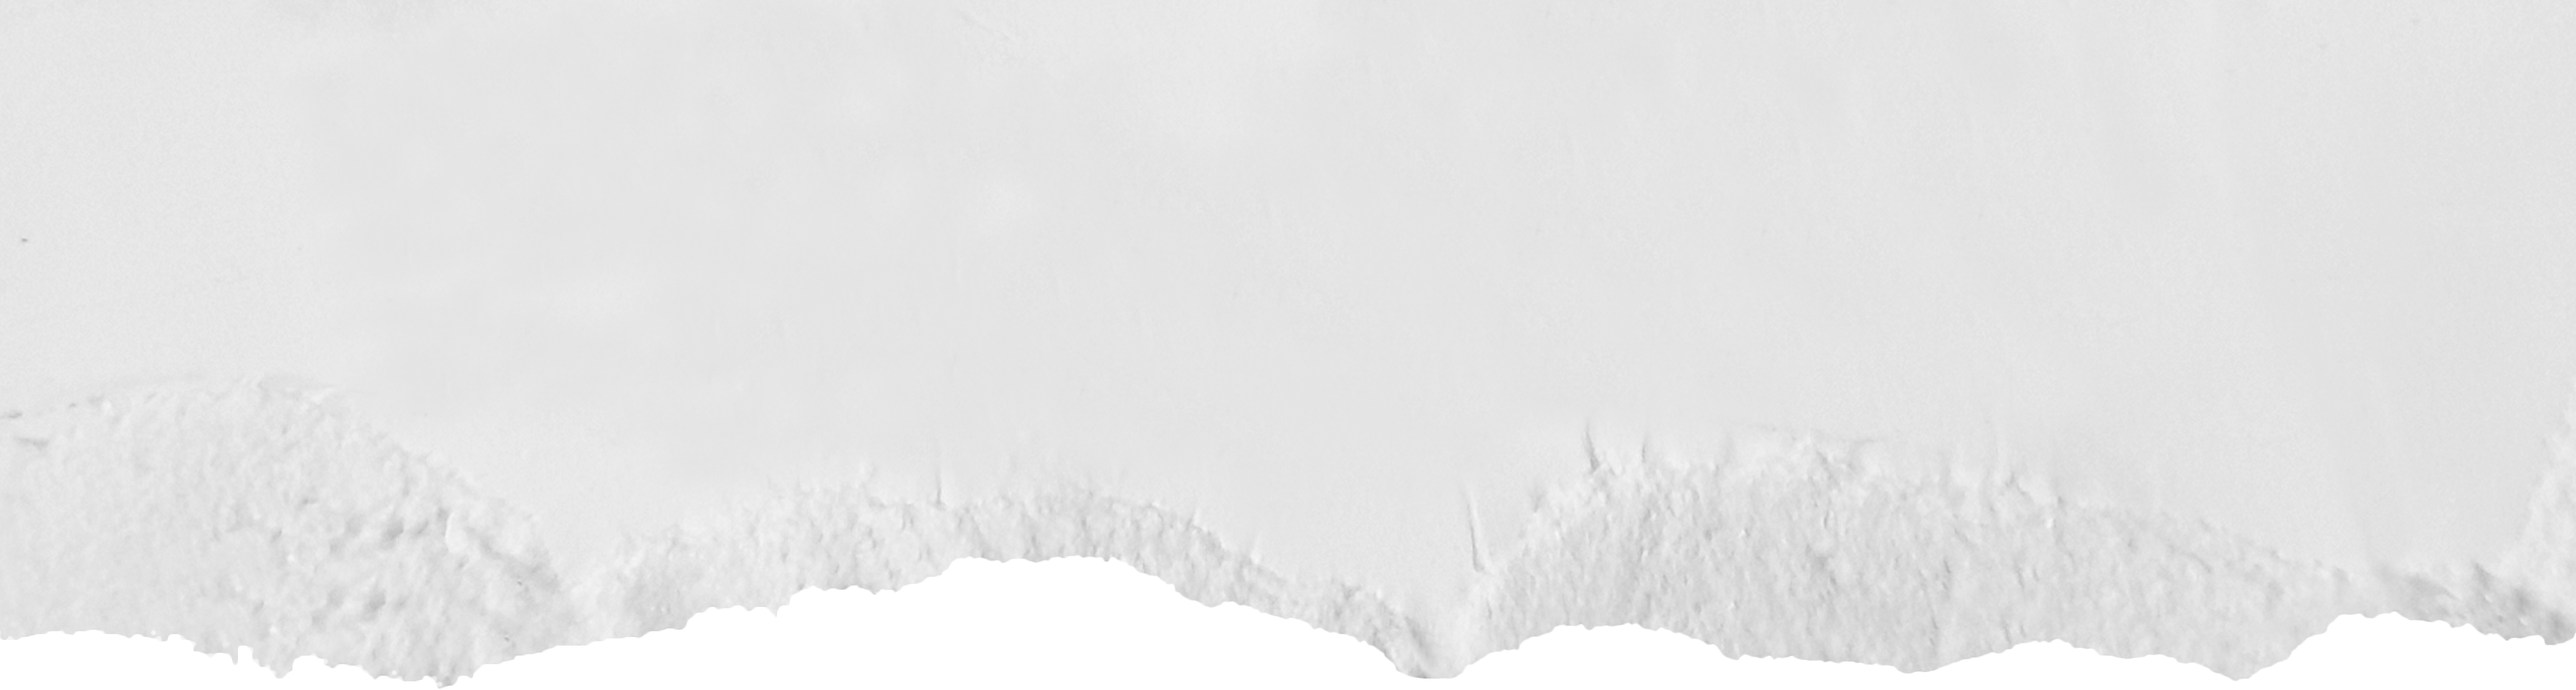
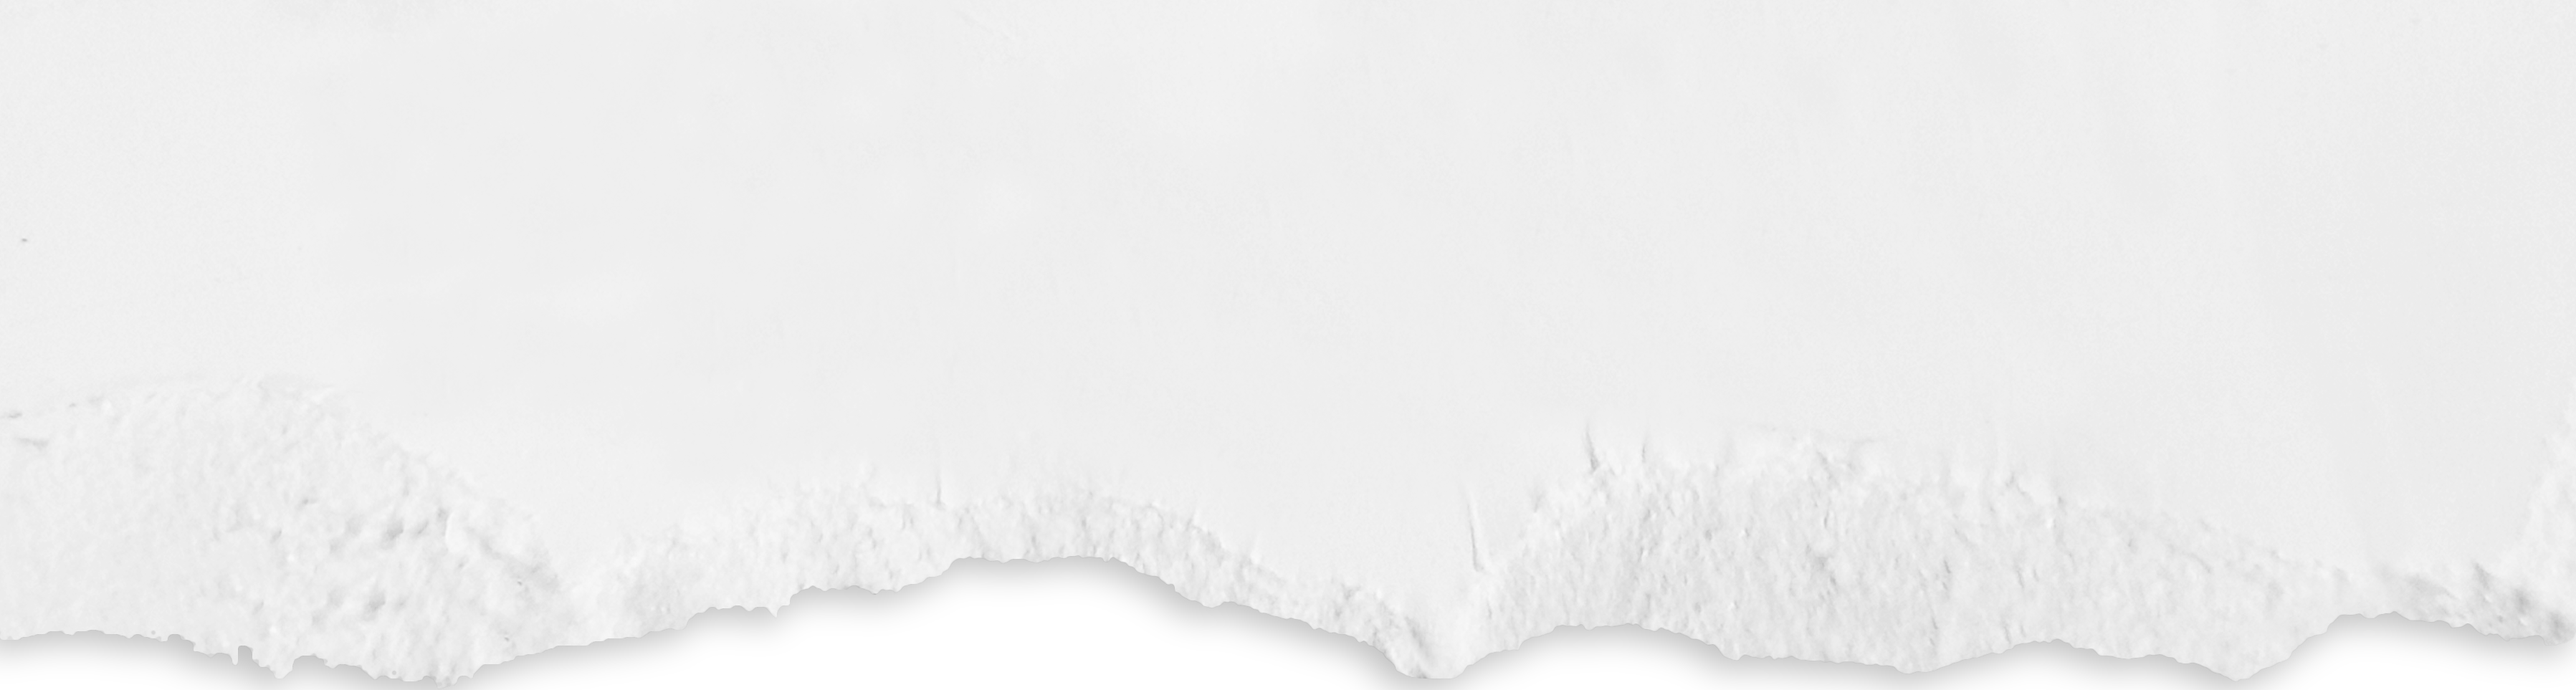
add aesthetic pieces of paper

Changed region(s): [[0.0, 0.81, 0.5921, 1.0], [0.5921, 0.8723, 0.9972, 1.0]]

diff --git a/public/style.css b/public/style.css
@@ -13,9 +13,9 @@ body {
     z-index: 100;
     width: 100%;
     height: 15%;
-    background-image: url("images/torn\ paper\ by\ freeject.net\ 5.png"), linear-gradient(to bottom, #e6e6e6 0%, transparent 50%);
+    background-image: url("images/torn\ paper\ by\ freeject.net\ 5.png");
     background-position: bottom;
-    background-size: 40% 100%, cover;
+    background-size: 50% 100%;
     background-repeat: repeat-x;
 }
 
@@ -91,7 +91,8 @@ body {
 
 .header {
     width: 100%;
-    height: 100vh;
+    height: 110vh;
+    padding-top: 15%;
     /* background-color: #f0f0f0; */
     background-image: url("images/white-wall-background.jpg");
     background-size: cover;
@@ -129,9 +130,9 @@ body {
 
 .scroll-button {
     position: absolute;
-    bottom: 0;
+    bottom: 10%;
     left: 50%;
-    transform: translate(-50%, 0);
+    transform: translate(-50%, -10%);
     mix-blend-mode: multiply;
 }
 
@@ -149,18 +150,30 @@ body {
     text-align: center;
 }
 
+.paper-bottom {
+    transform: rotate(180deg);
+    width: 100%;
+    height: 10%;
+    position: absolute;
+    bottom: 0;
+    background-image: url("images/torn\ paper\ by\ freeject.net\ 1.png");
+    background-position: bottom;
+    background-size: 50% 100%;
+    background-repeat: repeat-x;
+}
+
 .section {
     width: 100%;
     /* background-color: #f0f0f0; */
     /* background-image: url("images/white-wall-background.jpg"); */
     background-size: cover;
+    overflow: hidden;
     padding-top: 10%;
     padding-bottom: 10%;
-    overflow: hidden;
 }
 
 #about-jessica, #about-kevin {
-    background-color: #E4E4E4;
+    background-color: #efefef;
 }
 
 #about-jessica {

diff --git a/public/index.html b/public/index.html
@@ -40,6 +40,9 @@
             <h3 class="scroll-text"><a href="#about-jessica" class="link">Scroll Down</a></h3>
             <h3 class="down-arrow"><a href="#about-jessica" class="link">&darr;</a></h3>
         </div>
+        <div class="paper-bottom">
+            <!-- <img src="images/torn paper by freeject.net 3.png" /> -->
+        </div>
     </div>
     <div class="section" id="about-jessica">
         <div class="resume" id="jessica-resume">
